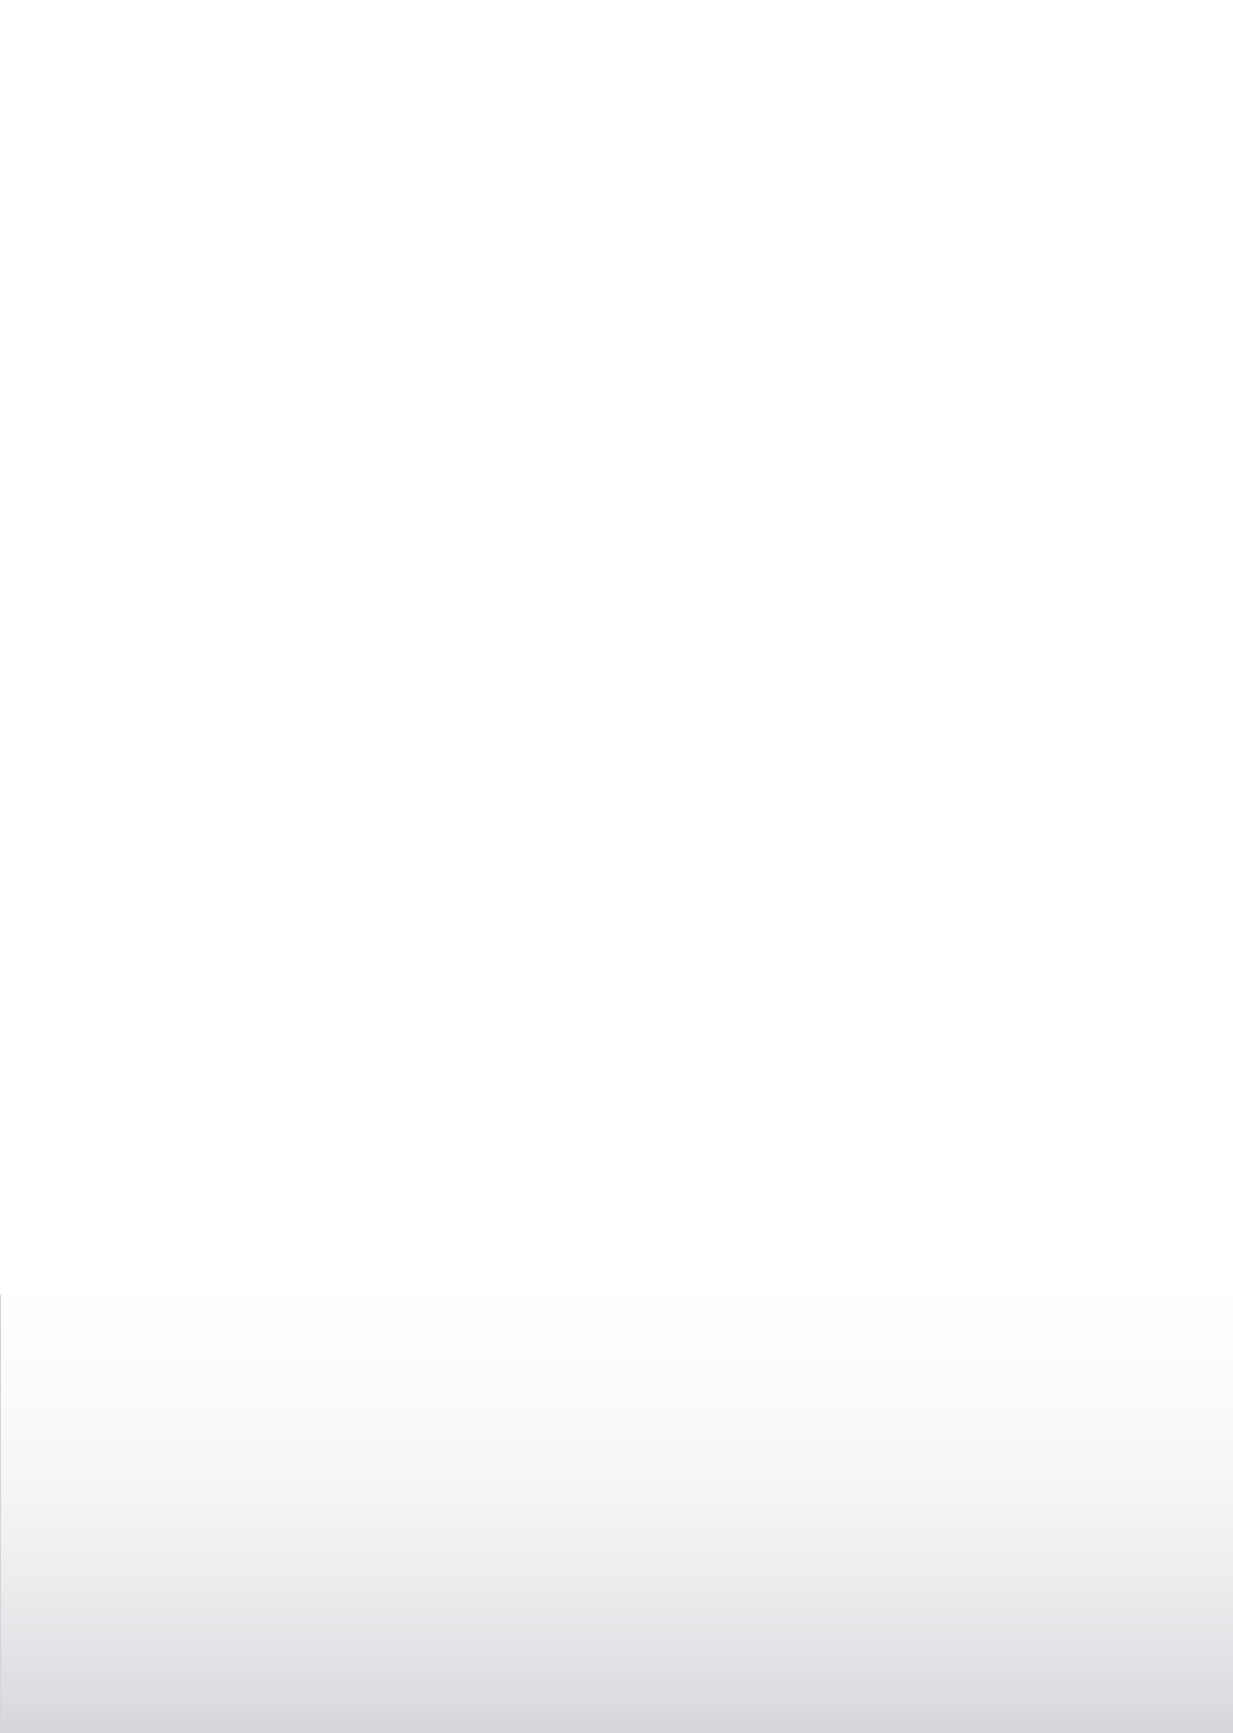
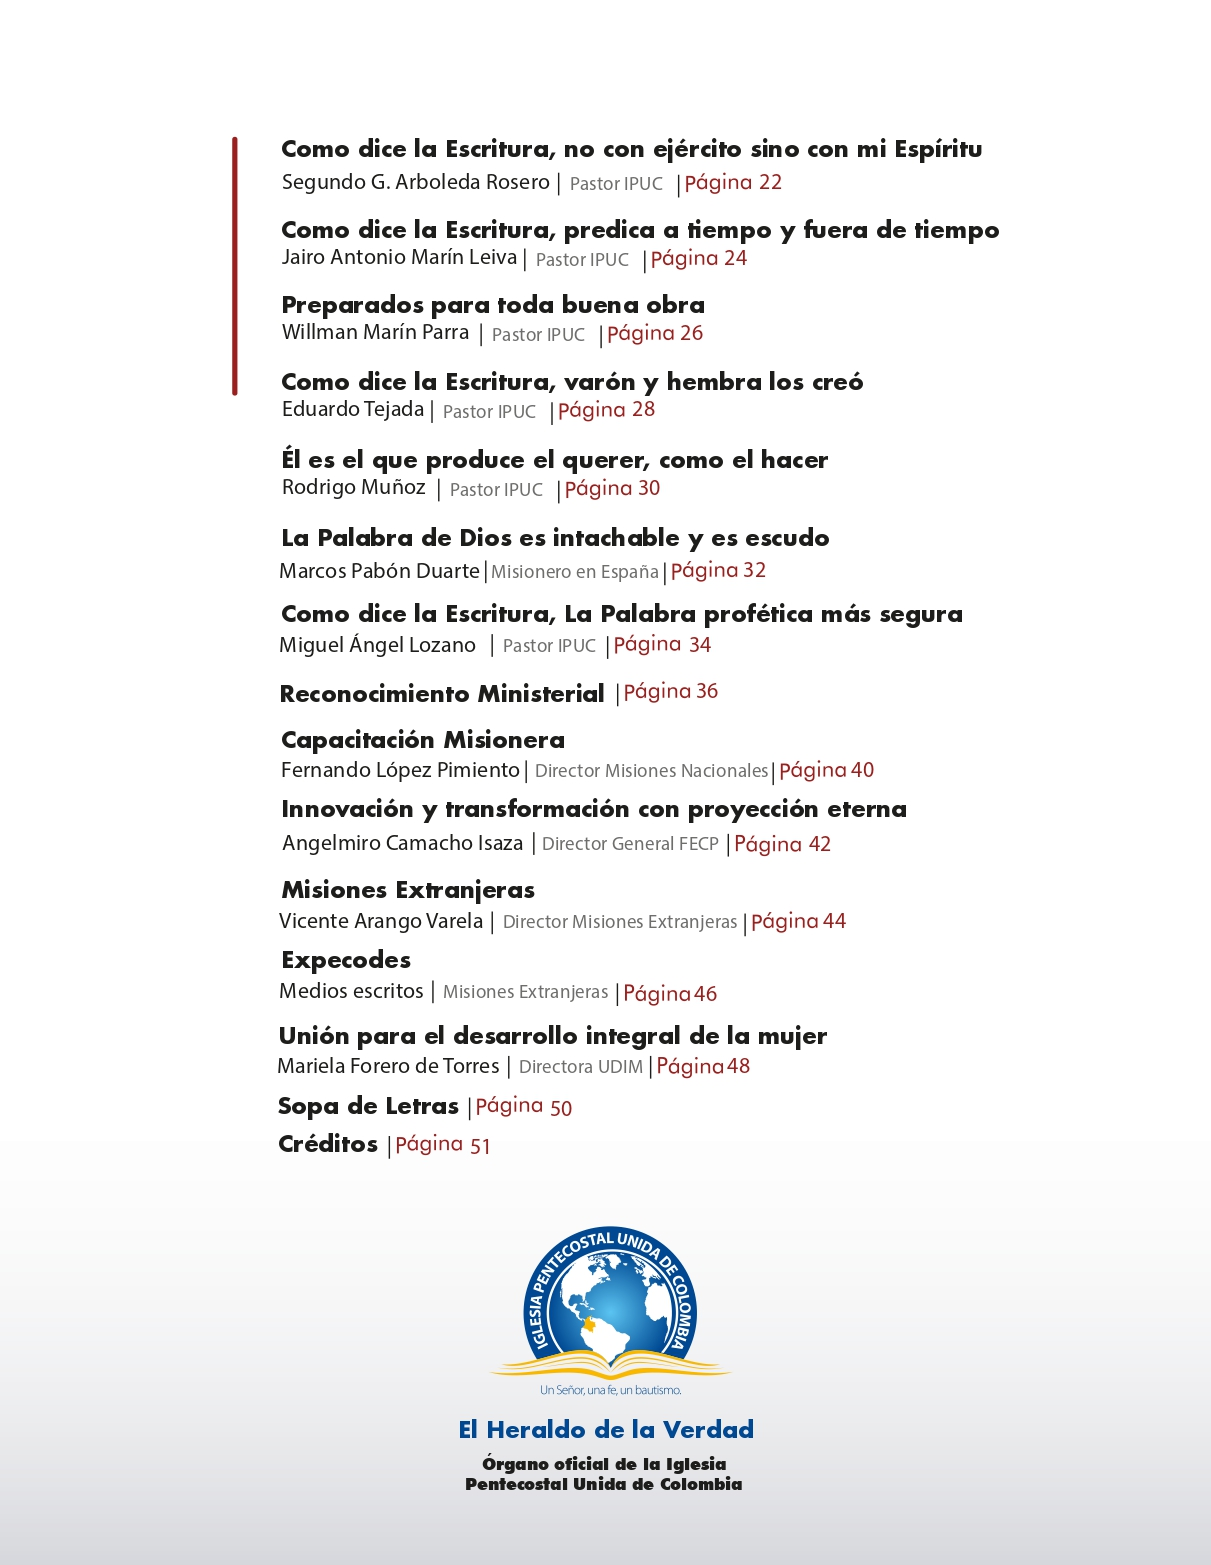
animacion de portada y indice de modo img

Changed region(s): [[0.1833, 0.092, 0.8249, 0.7361], [0.3666, 0.7668, 0.6416, 0.9508]]

diff --git a/assets/css/components/pages.css b/assets/css/components/pages.css
@@ -889,9 +889,25 @@ audio {
     bottom: 1em;
 }
 
+#img-content-1 {
+    animation: slidein 1.2s linear ;
+}
 
+#img-content-1-aux {
+    animation: slidein 1.5s linear ;
+}
 
-
+/*
+    animacion de entrada
+*/
+@keyframes slidein {
+    0% {
+        transform: translateX(-100%);
+    }
+    100% {
+        transform: translateX(0%);
+    }
+}
 
 /*
    Media Queries
@@ -1107,6 +1123,9 @@ audio {
     #img-content-28 .aux-img-class {
         width: 75% !important;
     } 
+    #img-content-1 {
+        top: 16% !important;
+    }
 
 }
 
@@ -1255,11 +1274,16 @@ audio {
         position: absolute !important;
         bottom: 0 ;
     }
-    
     #background-page-29 {
         height: 75% !important;
         position: absolute !important;
         bottom: 0 ;
+    }
+    #img-content-1 {
+        top: 15% !important;
+    }
+    #img-content-1 .aux-img-class {
+       width: 80% !important;
     }
 
 }
